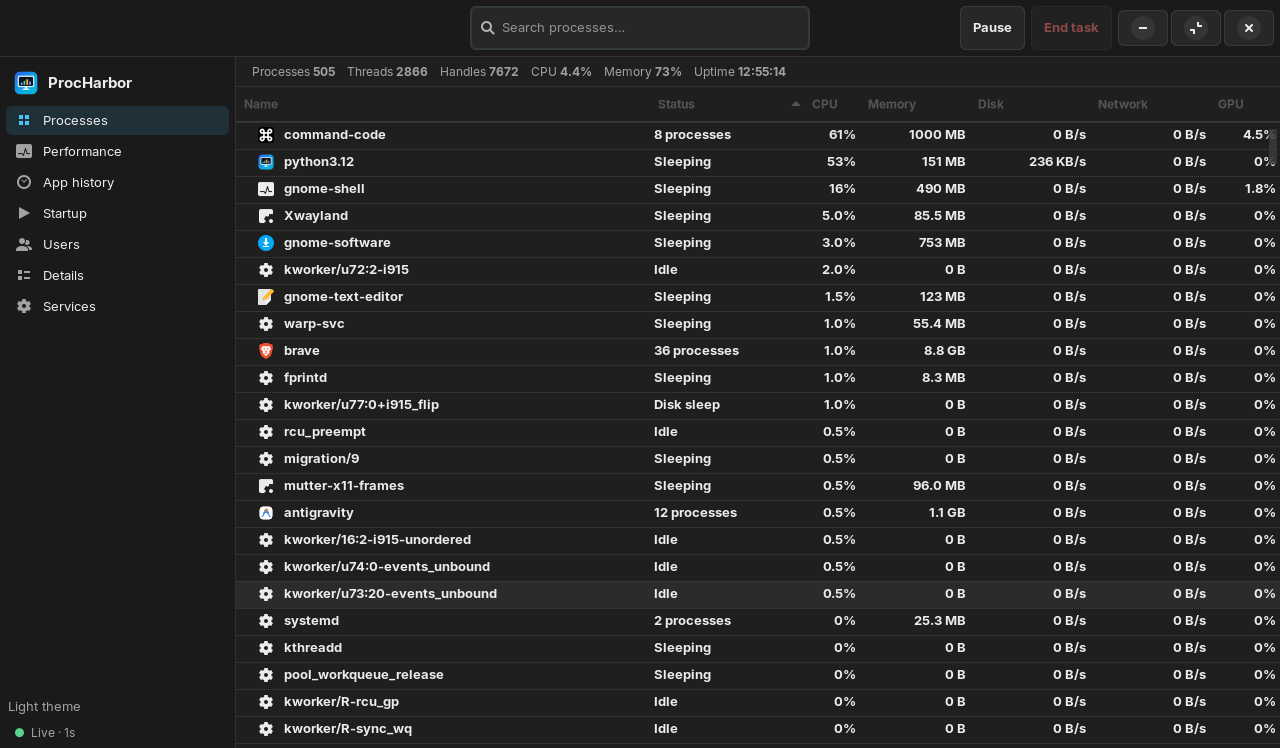
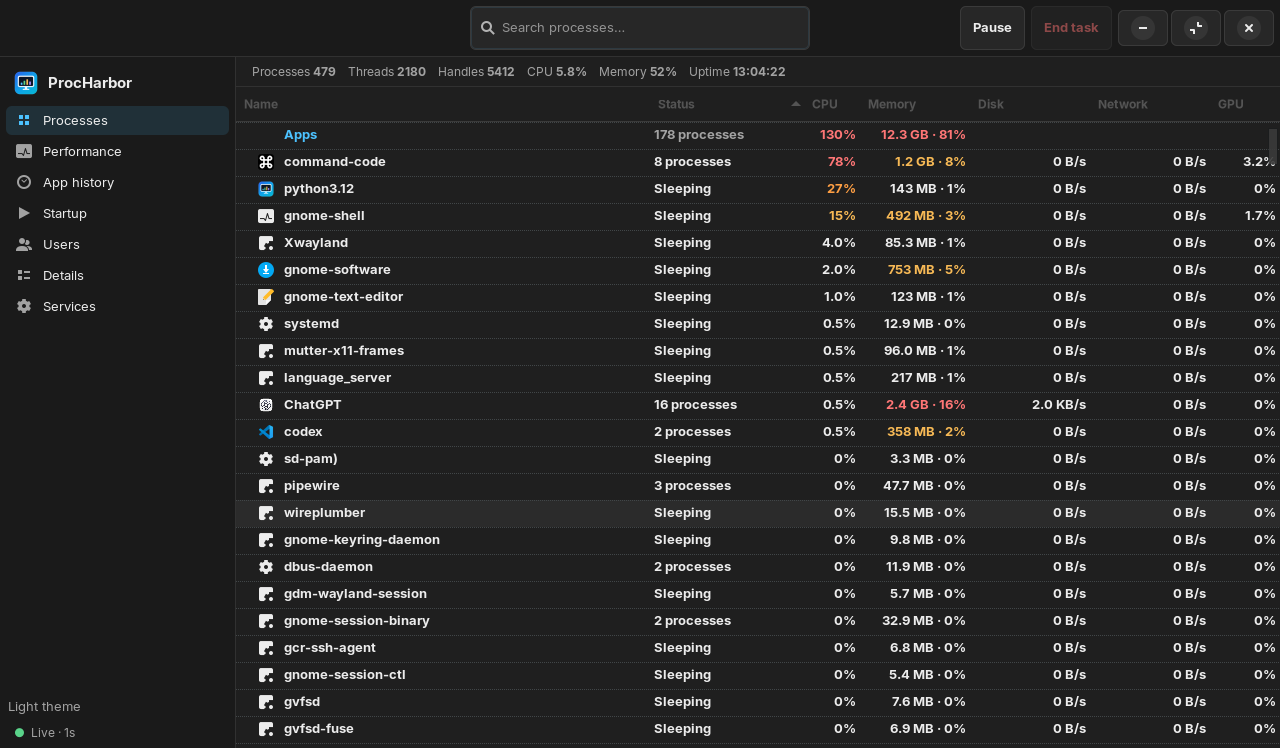
Split apps from system, colour load cells, show systemd user startup
ProcHarbor 1.2.0:
- Processes tab split into Apps and System sections
- CPU and memory cells coloured by load with memory percentages
- Startup tab lists enabled systemd user services, including WARP
- Refreshed screenshot

diff --git a/procharbor.py b/procharbor.py
@@ -81,7 +81,7 @@ THEMES = {
         "border": "#3a3a3a", "border_soft": "#313131", "text": "#ececec",
         "dim": "#a2a2a2", "faint": "#787878", "accent": "#4cc2ff",
         "accent_soft": "rgba(76,194,255,0.13)", "danger": "#ff7676",
-        "green": "#5ad48a", "amber": "#f7b955", "purple": "#a68bff",
+        "green": "#5ad48a", "amber": "#f7b955", "orange": "#ff9f43", "purple": "#a68bff",
         "sel": "#123a52", "hover": "#2b2b2b",
         "chart_grid": "#3a3a3a", "chart_text": "#787878",
     },
@@ -90,7 +90,7 @@ THEMES = {
         "border": "#d2d2d2", "border_soft": "#e3e3e3", "text": "#1b1b1b",
         "dim": "#5d5d5d", "faint": "#8a8a8a", "accent": "#0f7ac2",
         "accent_soft": "rgba(15,122,194,0.12)", "danger": "#c22f2f",
-        "green": "#1a8a4a", "amber": "#a86a00", "purple": "#6d4fd6",
+        "green": "#1a8a4a", "amber": "#a86a00", "orange": "#b45309", "purple": "#6d4fd6",
         "sel": "#cfe8fb", "hover": "#e8e8e8",
         "chart_grid": "#d2d2d2", "chart_text": "#8a8a8a",
     },
@@ -1209,7 +1209,30 @@ class Sampler:
                 "description": d.get("Comment", ""),
                 "source": os.path.join(base, fn),
             })
-        rows.sort(key=lambda r: r["name"].lower())
+        units = json_cmd(
+            ["systemctl", "--user", "list-unit-files", "--state=enabled", "--output=json", "--no-pager"], 6
+        ) or []
+        desc = {
+            u.get("unit", ""): u.get("description", "")
+            for u in (json_cmd(["systemctl", "--user", "list-units", "--all", "--output=json", "--no-pager"], 6) or [])
+            if isinstance(u, dict)
+        }
+        for u in units:
+            if not isinstance(u, dict):
+                continue
+            unit = u.get("unit_file", "")
+            if not unit.endswith(".service"):
+                continue
+            rows.append({
+                "name": unit,
+                "status": "Enabled",
+                "type": "Systemd (user)",
+                "scope": "user",
+                "command": "",
+                "description": desc.get(unit, ""),
+                "source": "",
+            })
+        rows.sort(key=lambda r: (r["type"] != "Autostart", r["name"].lower()))
         return rows
 
 
@@ -1489,11 +1512,12 @@ class ProcHarborWindow(Gtk.ApplicationWindow):
             "details": ("pid", 1),
             "apps": ("cpu_s", -1),
             "users": ("cpu", -1),
-            "startup": ("name", 1),
+            "startup": ("type", 1),
             "services": ("unit", 1),
         }
         self.columns = {k: {} for k in self.sort}
         self._rgba_cache = {}
+        self._total_mem = 0
         self._apps_stamp = None
         self._users_stamp = None
         self.perf_values = {}
@@ -1653,6 +1677,8 @@ class ProcHarborWindow(Gtk.ApplicationWindow):
     def _icon_for_row(self, row):
         if not isinstance(row, dict):
             return "application-x-executable-symbolic"
+        if row.get("_header"):
+            return ""
         app = (row.get("name") if row.get("_group") else row.get("app")) or row.get("name") or ""
         return self._icon_for_app(app, row.get("exe") or "", row.get("cmdline") or "")
 
@@ -1660,7 +1686,7 @@ class ProcHarborWindow(Gtk.ApplicationWindow):
         def func(col, cell, model, it, _data):
             row = model.get_value(it, 0)
             if isinstance(row, dict):
-                cell.set_property("icon-name", self._icon_for_row(row))
+                cell.set_property("icon-name", self._icon_for_row(row) or "")
         return func
 
     def _build_ui(self):
@@ -1825,15 +1851,52 @@ class ProcHarborWindow(Gtk.ApplicationWindow):
                 return
             cell.set_property("text", self._cell_text(view, row, key))
             cell.set_property("xalign", align)
-            cell.set_property("weight", Pango.Weight.BOLD if row.get("_group") else Pango.Weight.NORMAL)
+            is_header = bool(row.get("_header"))
+            cell.set_property(
+                "weight",
+                Pango.Weight.BOLD if (row.get("_group") or is_header) else Pango.Weight.NORMAL,
+            )
+            color = self.pal()["text"]
             if view == "services" and key == "status":
                 color = self._service_color_value(row)
             elif view == "startup" and key == "status":
                 color = self.pal()["text"] if row.get("status") == "Enabled" else self.pal()["faint"]
-            else:
-                color = self.pal()["text"]
+            elif view in ("processes", "details") and key in ("cpu", "mem"):
+                if key == "cpu":
+                    color = self._load_color(row.get("cpu") or 0, True)
+                else:
+                    pct = ((row.get("mem") or 0) / self._total_mem * 100) if self._total_mem else 0
+                    color = self._load_color(pct, False)
+            elif is_header and key == "name":
+                color = self.pal()["accent"]
+            elif is_header:
+                color = self.pal()["dim"]
             cell.set_property("foreground-rgba", self._rgba(color))
         return func
+
+    def _load_color(self, value, is_cpu):
+        pal = self.pal()
+        if is_cpu:
+            if value >= 50:
+                return pal["danger"]
+            if value >= 25:
+                return pal["orange"]
+            if value >= 5:
+                return pal["amber"]
+        else:
+            if value >= 15:
+                return pal["danger"]
+            if value >= 8:
+                return pal["orange"]
+            if value >= 2:
+                return pal["amber"]
+        return pal["text"]
+
+    def _mem_text(self, mem):
+        mem = mem or 0
+        if self._total_mem:
+            return f"{fmt_bytes(mem)} · {mem / self._total_mem * 100:.0f}%"
+        return fmt_bytes(mem)
 
     def _rgba(self, color):
         if color not in self._rgba_cache:
@@ -1851,6 +1914,8 @@ class ProcHarborWindow(Gtk.ApplicationWindow):
 
     def _cell_text(self, view, row, key):
         if view == "processes":
+            if row.get("_header") and key in ("disk", "net", "gpu"):
+                return ""
             if key == "name":
                 return row.get("name", "")
             if key == "status":
@@ -1858,7 +1923,7 @@ class ProcHarborWindow(Gtk.ApplicationWindow):
             if key == "cpu":
                 return fmt_pct(row.get("cpu"))
             if key == "mem":
-                return fmt_bytes(row.get("mem"))
+                return self._mem_text(row.get("mem"))
             if key == "disk":
                 return fmt_rate(row.get("disk") if row.get("_group") else (row.get("disk_r", 0) + row.get("disk_w", 0)))
             if key == "net":
@@ -1871,7 +1936,7 @@ class ProcHarborWindow(Gtk.ApplicationWindow):
             if key == "cpu":
                 return fmt_pct(row.get("cpu"))
             if key == "mem":
-                return fmt_bytes(row.get("mem"))
+                return self._mem_text(row.get("mem"))
             if key == "disk":
                 return fmt_rate(row.get("disk_r", 0) + row.get("disk_w", 0))
             if key == "net":
@@ -1981,15 +2046,16 @@ class ProcHarborWindow(Gtk.ApplicationWindow):
 
     def _build_startup_view(self):
         box = Gtk.Box(orientation=Gtk.Orientation.VERTICAL)
-        note = Gtk.Label(label="User-added apps from ~/.config/autostart.", xalign=0)
+        note = Gtk.Label(label="User autostart entries and enabled systemd user services.", xalign=0)
         note.add_css_class("summary")
         self.startup_note = note
         box.append(note)
         self.startup_store = Gtk.ListStore(object)
         cols = [
-            ("Name", "name", 320, 0.0),
-            ("Status", "status", 120, 0.0),
-            ("Command", "command", 500, 0.0),
+            ("Name", "name", 300, 0.0),
+            ("Status", "status", 100, 0.0),
+            ("Type", "type", 140, 0.0),
+            ("Command", "command", 420, 0.0),
         ]
         self.startup_tree = self._new_tree(self.startup_store, "startup", cols, expand_last=True)
         box.append(self._scrolled(self.startup_tree))
@@ -2207,7 +2273,7 @@ class ProcHarborWindow(Gtk.ApplicationWindow):
             it = store.get_iter_first()
             while it is not None and not found:
                 row = store.get_value(it, 0)
-                if isinstance(row, dict) and row.get("pid") == pid and not row.get("_group"):
+                if isinstance(row, dict) and row.get("pid") == pid and not row.get("_group") and not row.get("_header"):
                     selection.select_iter(it)
                     found = True
                     break
@@ -2238,16 +2304,19 @@ class ProcHarborWindow(Gtk.ApplicationWindow):
             or q in (p.get("cmdline") or "").lower()
         ]
 
-    def _build_groups(self, procs):
+    def _build_groups(self, procs, user_uids):
         groups = {}
         for p in procs:
-            g = groups.get(p["app"])
+            is_user = p.get("uid") in user_uids
+            key = (p["app"], is_user)
+            g = groups.get(key)
             if g is None:
                 g = {
                     "name": p["app"], "procs": [], "cpu": 0.0, "mem": 0,
                     "disk": 0.0, "net": 0.0, "gpu": 0.0, "_group": True,
+                    "category": "user" if is_user else "system",
                 }
-                groups[p["app"]] = g
+                groups[key] = g
             g["procs"].append(p)
             g["cpu"] += p.get("cpu") or 0
             g["mem"] += p.get("mem") or 0
@@ -2295,13 +2364,28 @@ class ProcHarborWindow(Gtk.ApplicationWindow):
         open_names = set()
         try:
             self.proc_store.clear()
-            groups = self._sort_groups(self._build_groups(self._filtered_procs()))
-            for g in groups:
-                parent = self.proc_store.append(None, [g])
-                if self._group_open(g):
-                    open_names.add(g["name"])
-                    for p in sorted(g["procs"], key=lambda x: -(x.get("cpu") or 0)):
-                        self.proc_store.append(parent, [p])
+            user_uids = {u["uid"] for u in (self.snap.get("users") or [])} or {MY_UID}
+            groups = self._sort_groups(self._build_groups(self._filtered_procs(), user_uids))
+            for label, cat in (("Apps", "user"), ("System", "system")):
+                section = [g for g in groups if g.get("category") == cat]
+                if not section:
+                    continue
+                total = sum(len(g["procs"]) for g in section)
+                header = {
+                    "_header": True,
+                    "name": label,
+                    "status": f"{total} process{'es' if total != 1 else ''}",
+                    "cpu": sum(g.get("cpu") or 0 for g in section),
+                    "mem": sum(g.get("mem") or 0 for g in section),
+                    "disk": 0, "net": 0, "gpu": 0,
+                }
+                self.proc_store.append(None, [header])
+                for g in section:
+                    parent = self.proc_store.append(None, [g])
+                    if self._group_open(g):
+                        open_names.add(g["name"])
+                        for p in sorted(g["procs"], key=lambda x: -(x.get("cpu") or 0)):
+                            self.proc_store.append(parent, [p])
             it = self.proc_store.get_iter_first()
             while it is not None:
                 row = self.proc_store.get_value(it, 0)
@@ -2412,6 +2496,7 @@ class ProcHarborWindow(Gtk.ApplicationWindow):
         system = self.snap.get("system") or {}
         if not system:
             return
+        self._total_mem = system["memory"]["total"]
         self.summary.set_markup(
             f"Processes <b>{totals.get('processes', 0)}</b>    "
             f"Threads <b>{totals.get('threads', 0)}</b>    "

diff --git a/README.md b/README.md
@@ -15,15 +15,16 @@ systemd and DRM fdinfo directly. No root, no daemon, no network access.
 
 ## Features
 
-- **Processes** — grouped by executable with application icons, groups
-  collapsed by default, sortable columns, search, per-process CPU, memory,
+- **Processes** — split into **Apps** and **System** sections, grouped by
+  executable with application icons, groups collapsed by default, CPU and
+  memory load colouring, sortable columns, search, per-process CPU, memory,
   disk, network and GPU, End task.
 - **Performance** — CPU (per-core clocks and charts, package temperature),
   Memory, Disk (volumes, NVMe temperature), Wi-Fi (signal, link rate, adapter,
   power save) and GPU, all with live charts.
 - **App history** — cumulative CPU time, network and disk totals per app.
-- **Startup** — user-added entries from `~/.config/autostart`, with enabled or
-  disabled status.
+- **Startup** — user autostart entries plus enabled systemd user services
+  (including `warp-taskbar.service`), with status and type.
 - **Users** — login sessions with per-user CPU, memory, disk, network and
   process counts.
 - **Details** — flat process table: PID, status, user, CPU, memory, disk,
@@ -40,10 +41,10 @@ Download the `.deb` for your architecture from
 
 ```sh
 # x86_64
-sudo apt install ./procharbor_1.1.0_amd64.deb
+sudo apt install ./procharbor_1.2.0_amd64.deb
 
 # arm64
-sudo apt install ./procharbor_1.1.0_arm64.deb
+sudo apt install ./procharbor_1.2.0_arm64.deb
 ```
 
 Launch **ProcHarbor** from the application menu, or run:
@@ -72,8 +73,8 @@ Install a menu entry and desktop shortcut for the source checkout:
 ./build-deb.sh
 ```
 
-This creates `dist/procharbor_1.1.0_amd64.deb`,
-`dist/procharbor_1.1.0_arm64.deb` and `dist/SHA256SUMS`. The packages contain
+This creates `dist/procharbor_1.2.0_amd64.deb`,
+`dist/procharbor_1.2.0_arm64.deb` and `dist/SHA256SUMS`. The packages contain
 the same pure-Python application and icons; the architecture-specific metadata
 is provided for each target.
 
